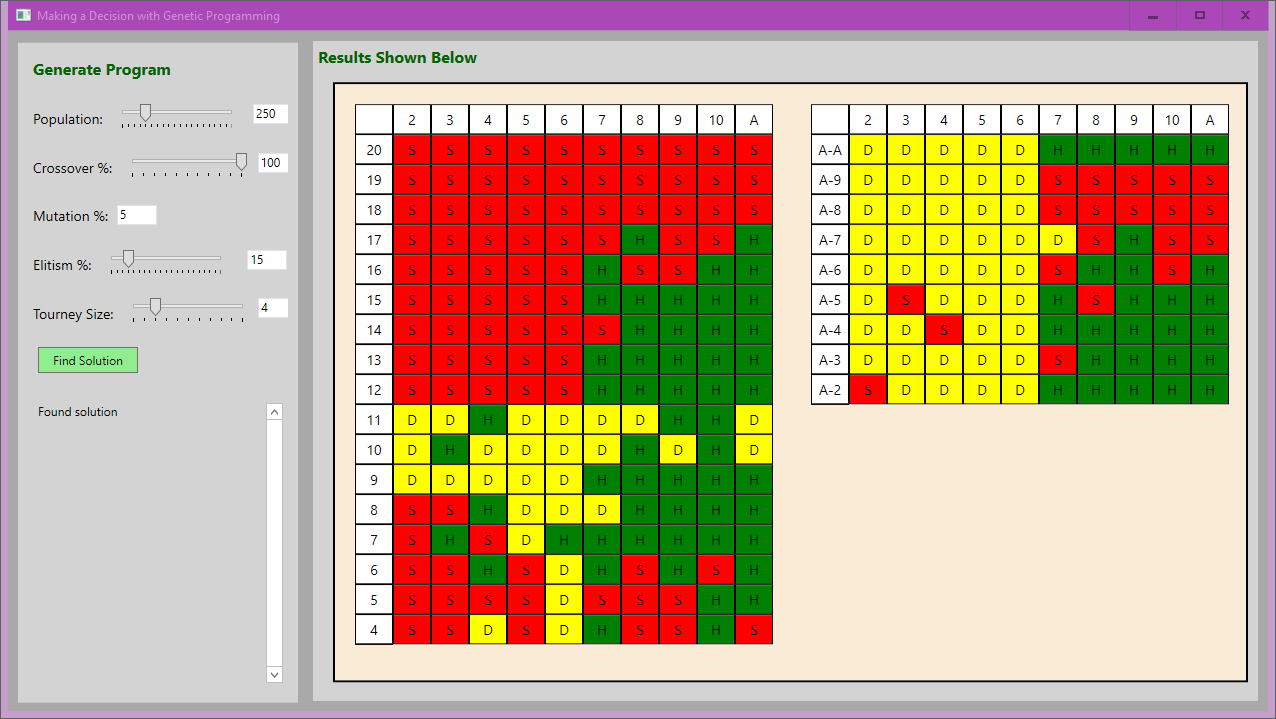
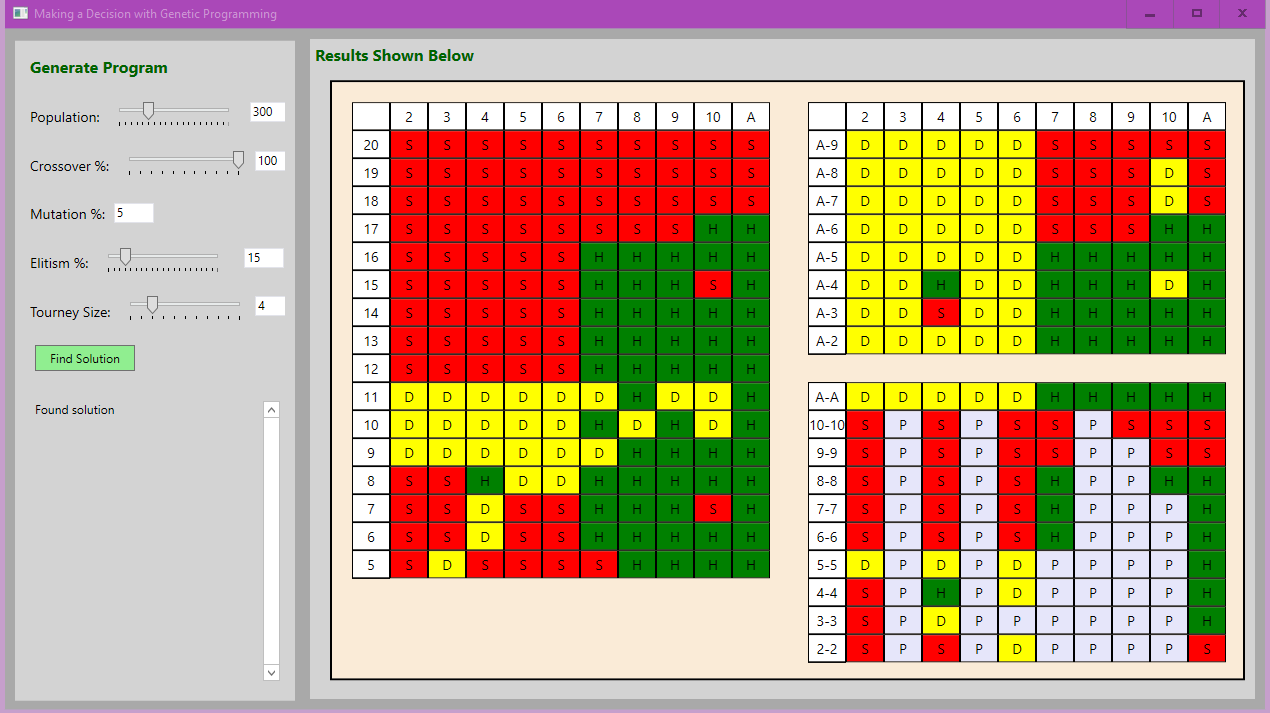
New screenshot and updates

diff --git a/Examples/Blackjack Strategy/MainWindow.xaml.cs b/Examples/Blackjack Strategy/MainWindow.xaml.cs
@@ -284,7 +284,7 @@ namespace BlackjackStrategy
                             break;
 
                         case ActionToTake.Split:
-                            AddColorBox(Colors.Lavender, "P", x, y);
+                            AddColorBox(Colors.LightBlue, "P", x, y);
                             break;
                     }
                     y++;
